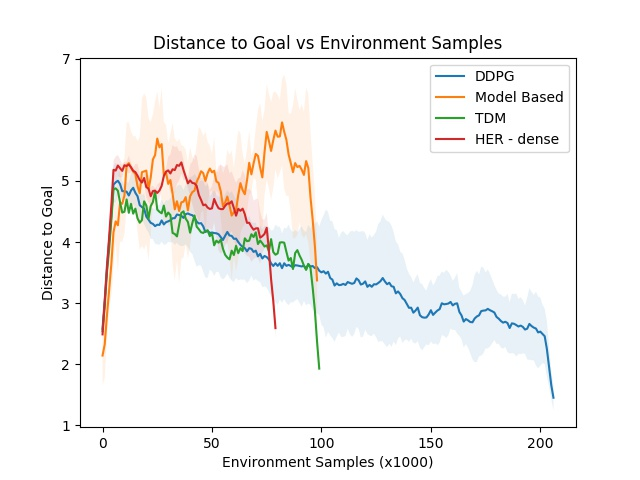
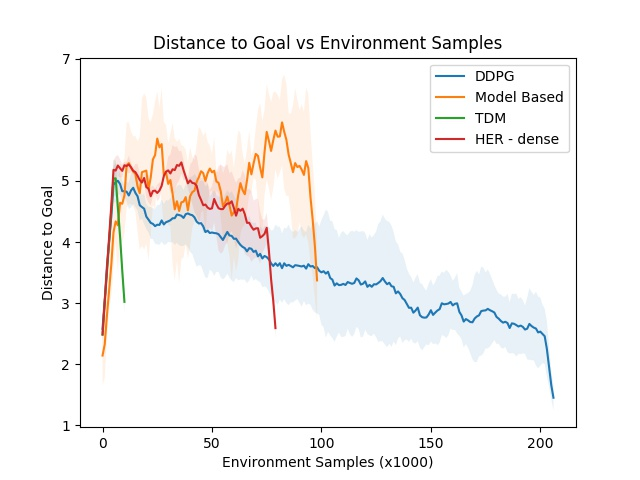
update plots

Changed region(s): [[0.1562, 0.375, 0.5, 0.75], [0.1875, 0.5, 0.2188, 0.625]]

diff --git a/experiments/state_distance/iclr2018/cheetah_results.py b/experiments/state_distance/iclr2018/cheetah_results.py
@@ -14,8 +14,13 @@ ddpg_criteria = {
 }
 mb_path = "/home/vitchyr/git/rllab-rail/railrl/data/doodads3/10-26-abhishek-mb-cheetah-target-reset/"
 mb_criteria = None
-our_path = "/home/vitchyr/git/rllab-rail/railrl/data/local/10-26-sdql-cheetah-xvel/10-26-sdql-cheetah-xvel_2017_10_26_16_11_42_0000--s-5011/"
-our_criteria = None
+# our_path = "/home/vitchyr/git/rllab-rail/railrl/data/local/10-26-sdql-cheetah-xvel/10-26-sdql-cheetah-xvel_2017_10_26_16_11_42_0000--s-5011/"
+# our_criteria = None
+our_path = "/home/vitchyr/git/rllab-rail/railrl/data/doodads3/10-27-get-results-half-cheetah-h100/"
+our_criteria = {
+    'algo_params.num_updates_per_env_step': 5,
+    'epoch_discount_schedule_params.value': 10,
+}
 her_dense_path = "/home/vitchyr/git/rllab-rail/railrl/data/doodads3/10-27-her-baseline-shaped-rewards-no-clipping-300-300-right-discount-and-tau/"
 her_dense_criteria = {
     'algo_params.num_updates_per_env_step': 1,
